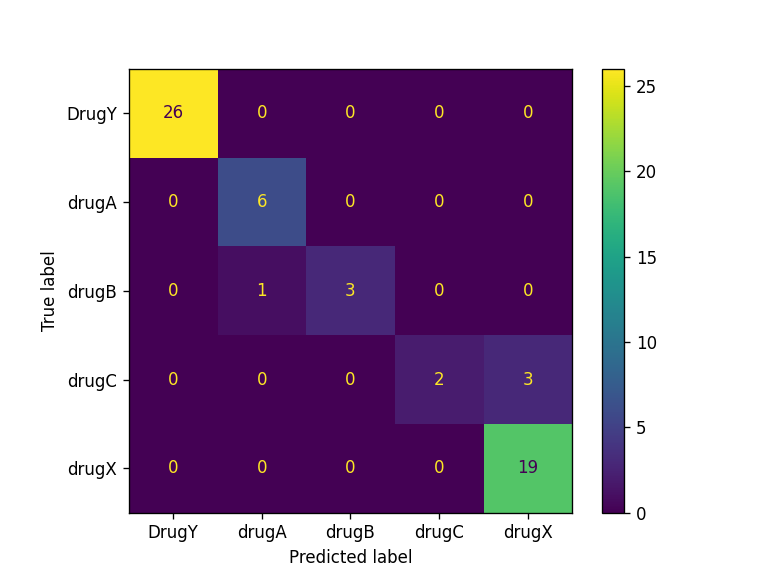
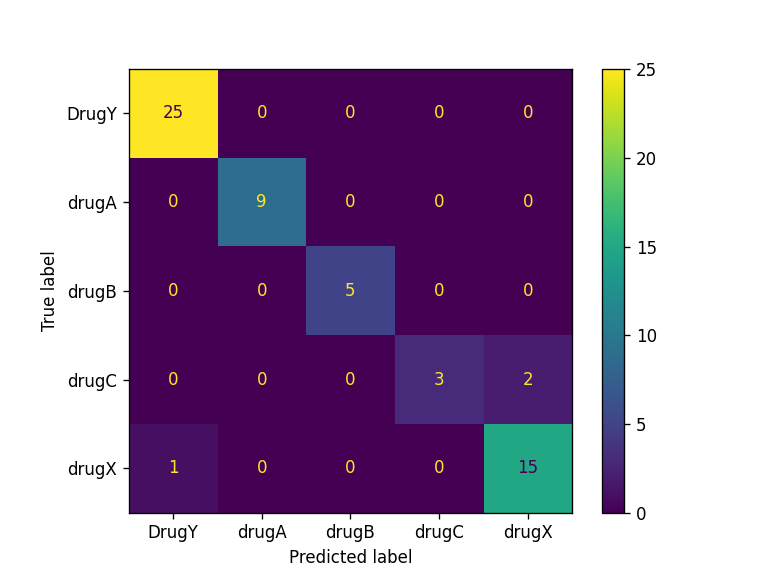
Update: evaluation results

diff --git a/report.md b/report.md
@@ -1,5 +1,5 @@
 ## Model Metrics
 
-Accuracy = 0.93, F1 Score = 0.86.
+Accuracy = 0.95, F1 Score = 0.93.
 ## Confusion Matrix Plot
 ![Confusion Matrix](./Results/model_results.png)
